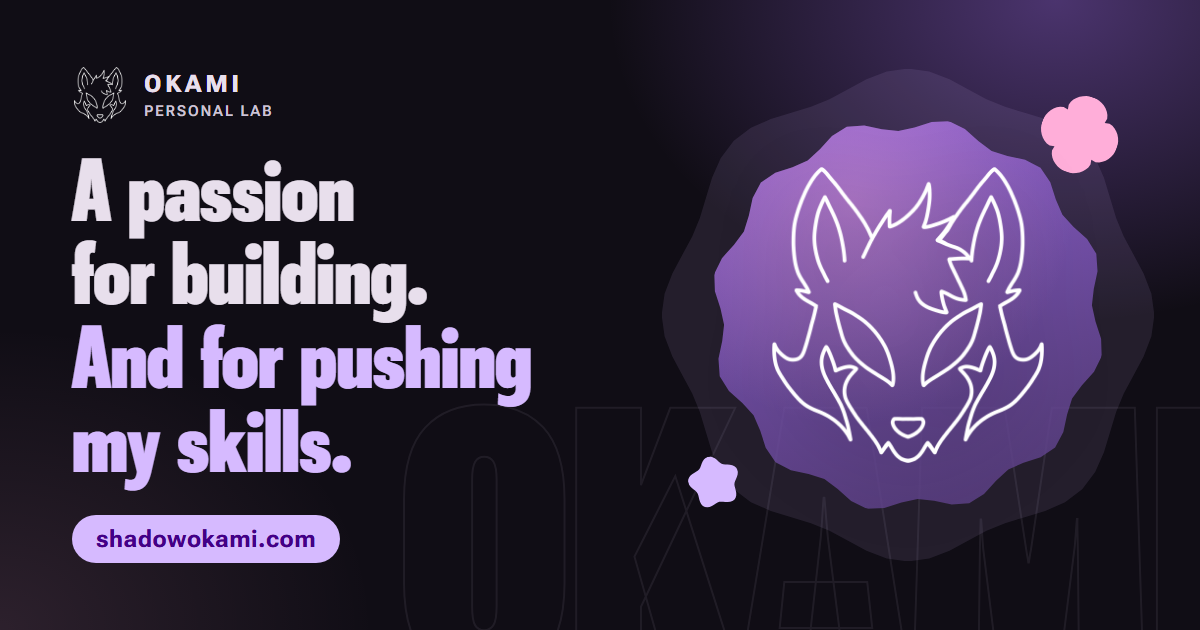
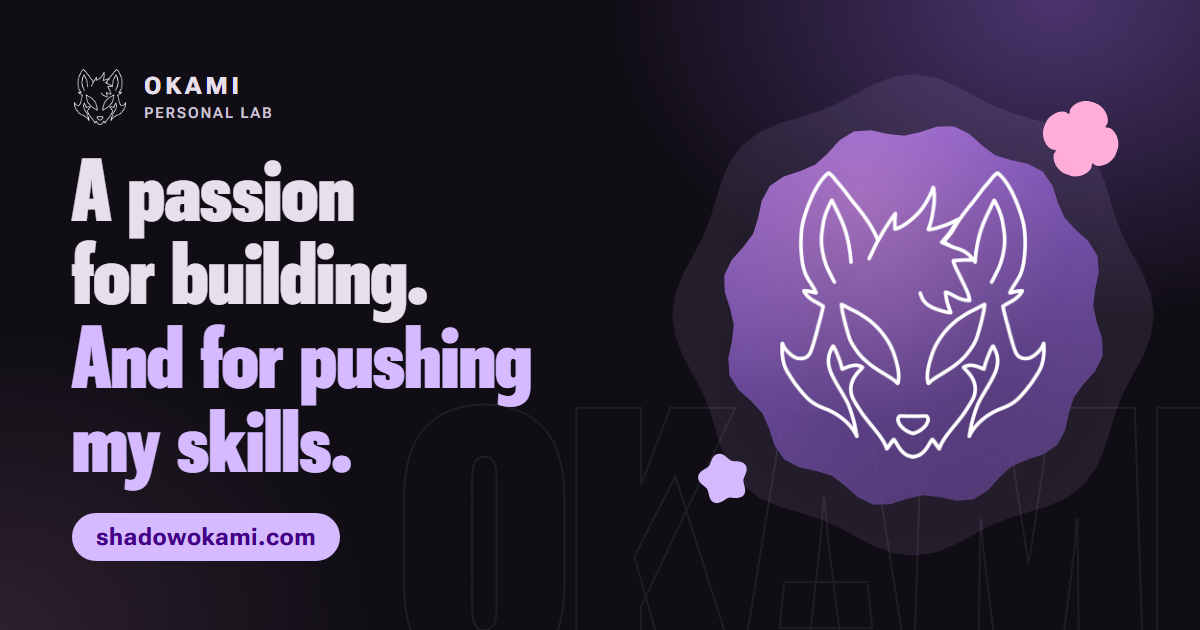
feat: link-preview cards for Voidline, LunaEcho and The Mirrored Realms
- og-card.html is now one template for all four cards (?card=...), each in its
  page's own colours; the Realms card uses the grimoire look with mirror and d20
- build-og.mjs renders all cards, or only the ones named as arguments
- Project pages (and LunaEcho Terms/Privacy) point og:image and twitter:image
  at their card; Voidline gains the og:description it was missing

diff --git a/tools/og-card.html b/tools/og-card.html
@@ -1,6 +1,7 @@
 <!doctype html>
-<!-- Link-preview card (Open Graph image), rendered to assets/images/og-okami.png
-     by tools/build-og.mjs. Uses the site's own tokens, shapes and font. -->
+<!-- Link-preview cards (Open Graph images), rendered to assets/images/og-*.png
+     by tools/build-og.mjs. One template, picked with ?card=okami|voidline|lunaecho|realms.
+     Uses the site's own tokens, shapes and fonts, so each card matches its page. -->
 <html lang="en">
 <head>
     <meta charset="utf-8">
@@ -13,15 +14,19 @@
             font-weight: 100 1000;
             font-stretch: 25% 151%;
         }
+        @font-face { font-family: "Cinzel"; src: url("../assets/fonts/cinzel-latin.woff2") format("woff2"); font-weight: 400 900; }
+        @font-face { font-family: "EB Garamond"; src: url("../assets/fonts/eb-garamond-latin.woff2") format("woff2"); font-weight: 400 800; }
+        @font-face { font-family: "EB Garamond"; src: url("../assets/fonts/eb-garamond-italic-latin.woff2") format("woff2"); font-style: italic; font-weight: 400 800; }
+
         * { box-sizing: border-box; }
         html, body { width: 1200px; height: 630px; margin: 0; overflow: hidden; }
         body {
             position: relative;
             display: grid;
-            padding: 64px 72px;
-            grid-template-columns: 1fr 440px;
+            padding: 60px 72px;
+            grid-template-columns: 1fr 430px;
             align-items: center;
-            gap: 40px;
+            gap: 44px;
             color: var(--md-sys-color-on-surface);
             background:
                 radial-gradient(640px 460px at 88% 0%, color-mix(in srgb, var(--md-sys-color-primary-container) 38%, transparent), transparent 70%),
@@ -39,16 +44,22 @@
             font-stretch: 42%;
             font-weight: 760;
             line-height: .8;
+            white-space: nowrap;
             -webkit-text-stroke: 2px color-mix(in srgb, var(--md-sys-color-on-surface) 8%, transparent);
         }
         .copy { position: relative; z-index: 2; }
-        .brand { display: flex; margin: 0 0 26px; align-items: center; gap: 16px; font-size: 24px; font-weight: 800; letter-spacing: .16em; }
+        .brand { display: flex; margin: 0 0 24px; align-items: center; gap: 16px; font-size: 24px; font-weight: 800; letter-spacing: .16em; }
         .brand img { width: 56px; height: 56px; object-fit: contain; }
         .brand small { display: block; margin-top: 4px; color: var(--md-sys-color-on-surface-variant); font-size: 15px; font-weight: 600; letter-spacing: .12em; }
         h1 { margin: 0; font-size: 88px; font-stretch: 42%; font-weight: 760; letter-spacing: -.005em; line-height: .95; }
         h1 span { color: var(--md-sys-color-primary); }
-        .url { display: inline-block; margin: 32px 0 0; padding: 10px 24px; border-radius: 999px; color: var(--md-sys-color-on-primary); background: var(--md-sys-color-primary); font-size: 24px; font-weight: 700; letter-spacing: .02em; }
-        .mark { position: relative; z-index: 1; display: grid; width: 440px; height: 440px; place-items: center; }
+        /* Project cards: the name is the headline, the tagline sits below it. */
+        .project h1 { font-size: 150px; line-height: .86; text-transform: uppercase; }
+        .tagline { max-width: 600px; margin: 20px 0 0; color: var(--md-sys-color-on-surface-variant); font-size: 31px; font-weight: 500; line-height: 1.25; }
+        .tagline:empty { display: none; }
+        .url { display: inline-block; margin: 30px 0 0; padding: 10px 24px; border-radius: 999px; color: var(--md-sys-color-on-primary); background: var(--md-sys-color-primary); font-size: 24px; font-weight: 700; letter-spacing: .02em; }
+
+        .mark { position: relative; z-index: 1; display: grid; width: 430px; height: 430px; place-items: center; }
         .mark i { position: absolute; display: block; }
         .ring { inset: -6%; background: color-mix(in srgb, var(--md-sys-color-primary) 10%, transparent); clip-path: var(--shape-sunny); }
         .main {
@@ -61,16 +72,97 @@
         }
         .clover { top: 0; right: 2%; width: 18%; aspect-ratio: 1; background: var(--md-sys-color-tertiary); clip-path: var(--shape-clover); transform: rotate(20deg); }
         .gem { bottom: 6%; left: 0; width: 12%; aspect-ratio: 1; background: var(--md-sys-color-primary); clip-path: var(--shape-gem); transform: rotate(-14deg); }
-        .mark img { position: relative; width: 62%; filter: drop-shadow(0 18px 40px rgb(0 0 0 / .45)); }
+        .mark > img { position: relative; width: 62%; filter: drop-shadow(0 18px 40px rgb(0 0 0 / .45)); }
+        .portal { display: none; }
+
+        /* Voidline: a dark shape so the purple logo stands out. */
+        .voidline-page .main { clip-path: var(--shape-cookie9); background: radial-gradient(circle at 50% 45%, #1d1329, #0c0910 75%); }
+        .voidline-page .ring { background: color-mix(in srgb, var(--md-sys-color-primary) 16%, transparent); }
+
+        /* LunaEcho: a softer, rounder shape behind the cat. */
+        .luna-page .main { clip-path: var(--shape-cookie6); transform: none; }
+        .luna-page .mark > img { width: 74%; }
+
+        /* The Mirrored Realms: the grimoire – serif type, gold, the mirror and its d20. */
+        .mirrorgate-page {
+            --gold: #e8c173;
+            --teal: #79c9bf;
+            background:
+                radial-gradient(620px 460px at 82% 8%, color-mix(in srgb, var(--gold) 16%, transparent), transparent 70%),
+                radial-gradient(520px 420px at 0% 100%, color-mix(in srgb, var(--teal) 9%, transparent), transparent 72%),
+                #120f0a;
+            font-family: "EB Garamond", Georgia, serif;
+        }
+        .mirrorgate-page .brand { font-family: "Roboto Flex", sans-serif; }
+        .mirrorgate-page h1 { font-family: "Cinzel", serif; font-size: 100px; font-stretch: normal; font-weight: 600; line-height: .92; text-transform: none; }
+        .mirrorgate-page h1 em { display: block; margin-bottom: 8px; color: var(--gold); font-size: .42em; font-style: normal; font-weight: 700; letter-spacing: .14em; }
+        .mirrorgate-page h1 span { color: transparent; font-weight: 500; -webkit-text-stroke: 1.6px var(--teal); }
+        .mirrorgate-page .tagline { font-size: 34px; font-style: italic; }
+        .mirrorgate-page .url { color: #1d1405; background: var(--gold); font-family: "Cinzel", serif; font-size: 22px; letter-spacing: .06em; }
+        .mirrorgate-page .mark i,
+        .mirrorgate-page .mark > img { display: none; }
+        .mirrorgate-page .portal { position: relative; display: block; width: 300px; height: 430px; }
+        .portal b { position: absolute; display: block; border-radius: 50% 50% 24% 24%; }
+        .portal .outer { inset: 0; border: 3px solid color-mix(in srgb, var(--gold) 80%, transparent); box-shadow: 0 0 0 18px color-mix(in srgb, var(--gold) 5%, transparent), 0 30px 80px rgb(0 0 0 / .5); }
+        .portal .inner { inset: 16px; border: 1.5px solid color-mix(in srgb, var(--teal) 50%, transparent); }
+        .portal .surface { inset: 32px; background: radial-gradient(circle at 42% 34%, color-mix(in srgb, var(--teal) 46%, transparent), rgb(5 15 16 / .96) 64%); box-shadow: inset 0 0 80px color-mix(in srgb, var(--teal) 16%, transparent); }
+        .d20 { position: absolute; bottom: 38px; left: 50%; width: 120px; height: 120px; margin-left: -60px; overflow: visible; filter: drop-shadow(0 0 22px color-mix(in srgb, var(--gold) 45%, transparent)); }
+        .d20 .face { fill: color-mix(in srgb, var(--gold) 16%, #120f0a); }
+        .d20 .edge { fill: none; stroke: var(--gold); stroke-width: 1.6; stroke-linejoin: round; }
+        .d20 text { fill: var(--gold); font-family: "Cinzel", serif; font-size: 17px; font-weight: 800; text-anchor: middle; }
     </style>
 </head>
 <body>
-    <p class="wordmark">OKAMI</p>
+    <p class="wordmark"></p>
     <div class="copy">
-        <p class="brand"><img src="../assets/images/okami-logo-v4.png" alt=""><span>OKAMI<small>PERSONAL LAB</small></span></p>
-        <h1>A passion<br>for building.<br><span>And for pushing<br>my skills.</span></h1>
-        <p class="url">shadowokami.com</p>
+        <p class="brand"><img src="../assets/images/okami-logo-v4.png" alt=""><span>OKAMI<small></small></span></p>
+        <h1></h1>
+        <p class="tagline"></p>
+        <p class="url"></p>
     </div>
-    <div class="mark"><i class="ring"></i><i class="main"></i><i class="clover"></i><i class="gem"></i><img src="../assets/images/okami-logo-v4.png" alt=""></div>
+    <div class="mark">
+        <i class="ring"></i><i class="main"></i><i class="clover"></i><i class="gem"></i>
+        <img alt="">
+        <div class="portal">
+            <b class="outer"></b><b class="inner"></b><b class="surface"></b>
+            <svg class="d20" viewBox="0 0 100 100"><path class="face" d="M50 4 90 27v46L50 96 10 73V27Z"/><path class="edge" d="M50 4 90 27v46L50 96 10 73V27ZM50 4 28 38h44ZM28 38 10 27M72 38l18-11M28 38 50 78 72 38M28 38 10 73M72 38l18 35M50 78 10 73M50 78l40-5M50 78v18"/><text x="50" y="62">20</text></svg>
+        </div>
+    </div>
+    <script>
+        // Card contents. `scope` is the page class whose colour tokens the card uses.
+        const CARDS = {
+            okami: {
+                scope: '', label: 'PERSONAL LAB', wordmark: 'OKAMI',
+                title: 'A passion<br>for building.<br><span>And for pushing<br>my skills.</span>',
+                tagline: '', url: 'shadowokami.com', image: '../assets/images/okami-logo-v4.png'
+            },
+            voidline: {
+                scope: 'voidline-page project', label: 'PROJECT / 01', wordmark: 'VOID',
+                title: 'Voidline',
+                tagline: 'An open-source desktop shell around Hyprland. Public development preview.',
+                url: 'shadowokami.com/Voidline', image: '../assets/images/voidline-logo-v4.webp'
+            },
+            lunaecho: {
+                scope: 'luna-page project', label: 'PROJECT / 02', wordmark: 'LUNA',
+                title: 'Luna<span>Echo</span>',
+                tagline: 'One bot. Every community tool. Your way.',
+                url: 'shadowokami.com/LunaEcho', image: '../assets/images/lunaecho-logo-v3.png'
+            },
+            realms: {
+                scope: 'mirrorgate-page project', label: 'PROJECT / 04', wordmark: '',
+                title: '<em>The Mirrored</em><span>Realms</span>',
+                tagline: 'An open-source D&amp;D 5.5e setting where mirrors remember other lives.',
+                url: 'shadowokami.com/Mirrored_Realms', image: ''
+            }
+        };
+        const card = CARDS[new URLSearchParams(location.search).get('card')] || CARDS.okami;
+        document.body.className = card.scope;
+        document.querySelector('.wordmark').textContent = card.wordmark;
+        document.querySelector('.brand small').textContent = card.label;
+        document.querySelector('h1').innerHTML = card.title;
+        document.querySelector('.tagline').innerHTML = card.tagline;
+        document.querySelector('.url').textContent = card.url;
+        if (card.image) document.querySelector('.mark > img').src = card.image;
+    </script>
 </body>
 </html>

diff --git a/pages/voidline.html b/pages/voidline.html
@@ -8,10 +8,15 @@
     <meta name="description" content="Voidline is an experimental open-source desktop shell and connected experience around Hyprland, currently available as the 0.3.0dev development release.">
     <meta property="og:type" content="website">
     <meta property="og:title" content="Voidline | Hyprland Desktop Shell">
+    <meta property="og:description" content="Voidline is an experimental open-source desktop shell and connected experience around Hyprland, currently available as the 0.3.0dev development release.">
     <meta property="og:site_name" content="Okami">
     <meta property="og:url" content="https://shadowokami.com/Voidline">
-    <meta property="og:image" content="https://shadowokami.com/assets/images/voidline-action-center.webp">
+    <meta property="og:image" content="https://shadowokami.com/assets/images/og-voidline.png?v=1">
+    <meta property="og:image:type" content="image/png">
+    <meta property="og:image:width" content="1200">
+    <meta property="og:image:height" content="630">
     <meta name="twitter:card" content="summary_large_image">
+    <meta name="twitter:image" content="https://shadowokami.com/assets/images/og-voidline.png?v=1">
     <link rel="canonical" href="https://shadowokami.com/Voidline">
     <link rel="icon" type="image/webp" href="../assets/images/voidline-logo-v4.webp?v=1">
     <link rel="preload" href="../assets/fonts/roboto-flex-latin.woff2" as="font" type="font/woff2" crossorigin>

diff --git a/pages/mirrorgate.html b/pages/mirrorgate.html
@@ -11,8 +11,12 @@
     <meta property="og:description" content="Enter an evolving open-source D&amp;D 5.5e setting where mirrors remember other lives and roads lose track of centuries.">
     <meta property="og:site_name" content="Okami">
     <meta property="og:url" content="https://shadowokami.com/Mirrored_Realms">
-    <meta property="og:image" content="https://shadowokami.com/assets/images/okami-logo-v4.png?v=2">
-    <meta name="twitter:card" content="summary">
+    <meta property="og:image" content="https://shadowokami.com/assets/images/og-realms.png?v=1">
+    <meta property="og:image:type" content="image/png">
+    <meta property="og:image:width" content="1200">
+    <meta property="og:image:height" content="630">
+    <meta name="twitter:card" content="summary_large_image">
+    <meta name="twitter:image" content="https://shadowokami.com/assets/images/og-realms.png?v=1">
     <link rel="canonical" href="https://shadowokami.com/Mirrored_Realms">
     <link rel="icon" type="image/png" sizes="32x32" href="../assets/favicon-32x32.png?v=1">
     <link rel="icon" type="image/png" sizes="16x16" href="../assets/favicon-16x16.png?v=1">

diff --git a/pages/lunaecho-privacy.html b/pages/lunaecho-privacy.html
@@ -11,8 +11,12 @@
     <meta property="og:description" content="How LunaEcho processes, protects, retains, and deletes Discord application data.">
     <meta property="og:site_name" content="Okami">
     <meta property="og:url" content="https://shadowokami.com/LunaEcho/Privacy">
-    <meta property="og:image" content="https://shadowokami.com/assets/images/lunaecho-logo-v3.png">
-    <meta name="twitter:card" content="summary">
+    <meta property="og:image" content="https://shadowokami.com/assets/images/og-lunaecho.png?v=1">
+    <meta property="og:image:type" content="image/png">
+    <meta property="og:image:width" content="1200">
+    <meta property="og:image:height" content="630">
+    <meta name="twitter:card" content="summary_large_image">
+    <meta name="twitter:image" content="https://shadowokami.com/assets/images/og-lunaecho.png?v=1">
     <link rel="canonical" href="https://shadowokami.com/LunaEcho/Privacy">
     <link rel="icon" type="image/png" sizes="32x32" href="../assets/favicon-32x32.png?v=1">
     <link rel="icon" type="image/png" sizes="16x16" href="../assets/favicon-16x16.png?v=1">

diff --git a/pages/lunaecho-terms.html b/pages/lunaecho-terms.html
@@ -11,8 +11,12 @@
     <meta property="og:description" content="Rules and conditions for using the LunaEcho Discord application and managed service.">
     <meta property="og:site_name" content="Okami">
     <meta property="og:url" content="https://shadowokami.com/LunaEcho/Terms">
-    <meta property="og:image" content="https://shadowokami.com/assets/images/lunaecho-logo-v3.png">
-    <meta name="twitter:card" content="summary">
+    <meta property="og:image" content="https://shadowokami.com/assets/images/og-lunaecho.png?v=1">
+    <meta property="og:image:type" content="image/png">
+    <meta property="og:image:width" content="1200">
+    <meta property="og:image:height" content="630">
+    <meta name="twitter:card" content="summary_large_image">
+    <meta name="twitter:image" content="https://shadowokami.com/assets/images/og-lunaecho.png?v=1">
     <link rel="canonical" href="https://shadowokami.com/LunaEcho/Terms">
     <link rel="icon" type="image/png" sizes="32x32" href="../assets/favicon-32x32.png?v=1">
     <link rel="icon" type="image/png" sizes="16x16" href="../assets/favicon-16x16.png?v=1">

diff --git a/pages/lunaecho.html b/pages/lunaecho.html
@@ -11,8 +11,12 @@
     <meta property="og:description" content="One bot. Every community tool. Your way. Explore LunaEcho Self-Hosted, Cloud, and Custom.">
     <meta property="og:site_name" content="Okami">
     <meta property="og:url" content="https://shadowokami.com/LunaEcho">
-    <meta property="og:image" content="https://shadowokami.com/assets/images/lunaecho-logo-v3.png">
-    <meta name="twitter:card" content="summary">
+    <meta property="og:image" content="https://shadowokami.com/assets/images/og-lunaecho.png?v=1">
+    <meta property="og:image:type" content="image/png">
+    <meta property="og:image:width" content="1200">
+    <meta property="og:image:height" content="630">
+    <meta name="twitter:card" content="summary_large_image">
+    <meta name="twitter:image" content="https://shadowokami.com/assets/images/og-lunaecho.png?v=1">
     <link rel="canonical" href="https://shadowokami.com/LunaEcho">
     <link rel="icon" type="image/png" sizes="32x32" href="../assets/favicon-32x32.png?v=1">
     <link rel="icon" type="image/png" sizes="16x16" href="../assets/favicon-16x16.png?v=1">

diff --git a/README.md b/README.md
@@ -84,7 +84,7 @@ npm install
 npm run build:tokens   # seed colours live in tools/build-tokens.mjs
 npm run build:fonts
 npm run build:shapes
-npm run build:og       # link-preview card, from tools/og-card.html (needs Edge or Chrome)
+npm run build:og       # link-preview cards for all four sites, from tools/og-card.html (needs Edge or Chrome)
 ```
 
 German translations live in `assets/js/translations.js`. Open any page with `?i18n-audit` to list English text that has no translation, and run `npm run check:i18n` to find dictionary entries no page uses any more (`node tools/check-translations.mjs --write` removes them).
